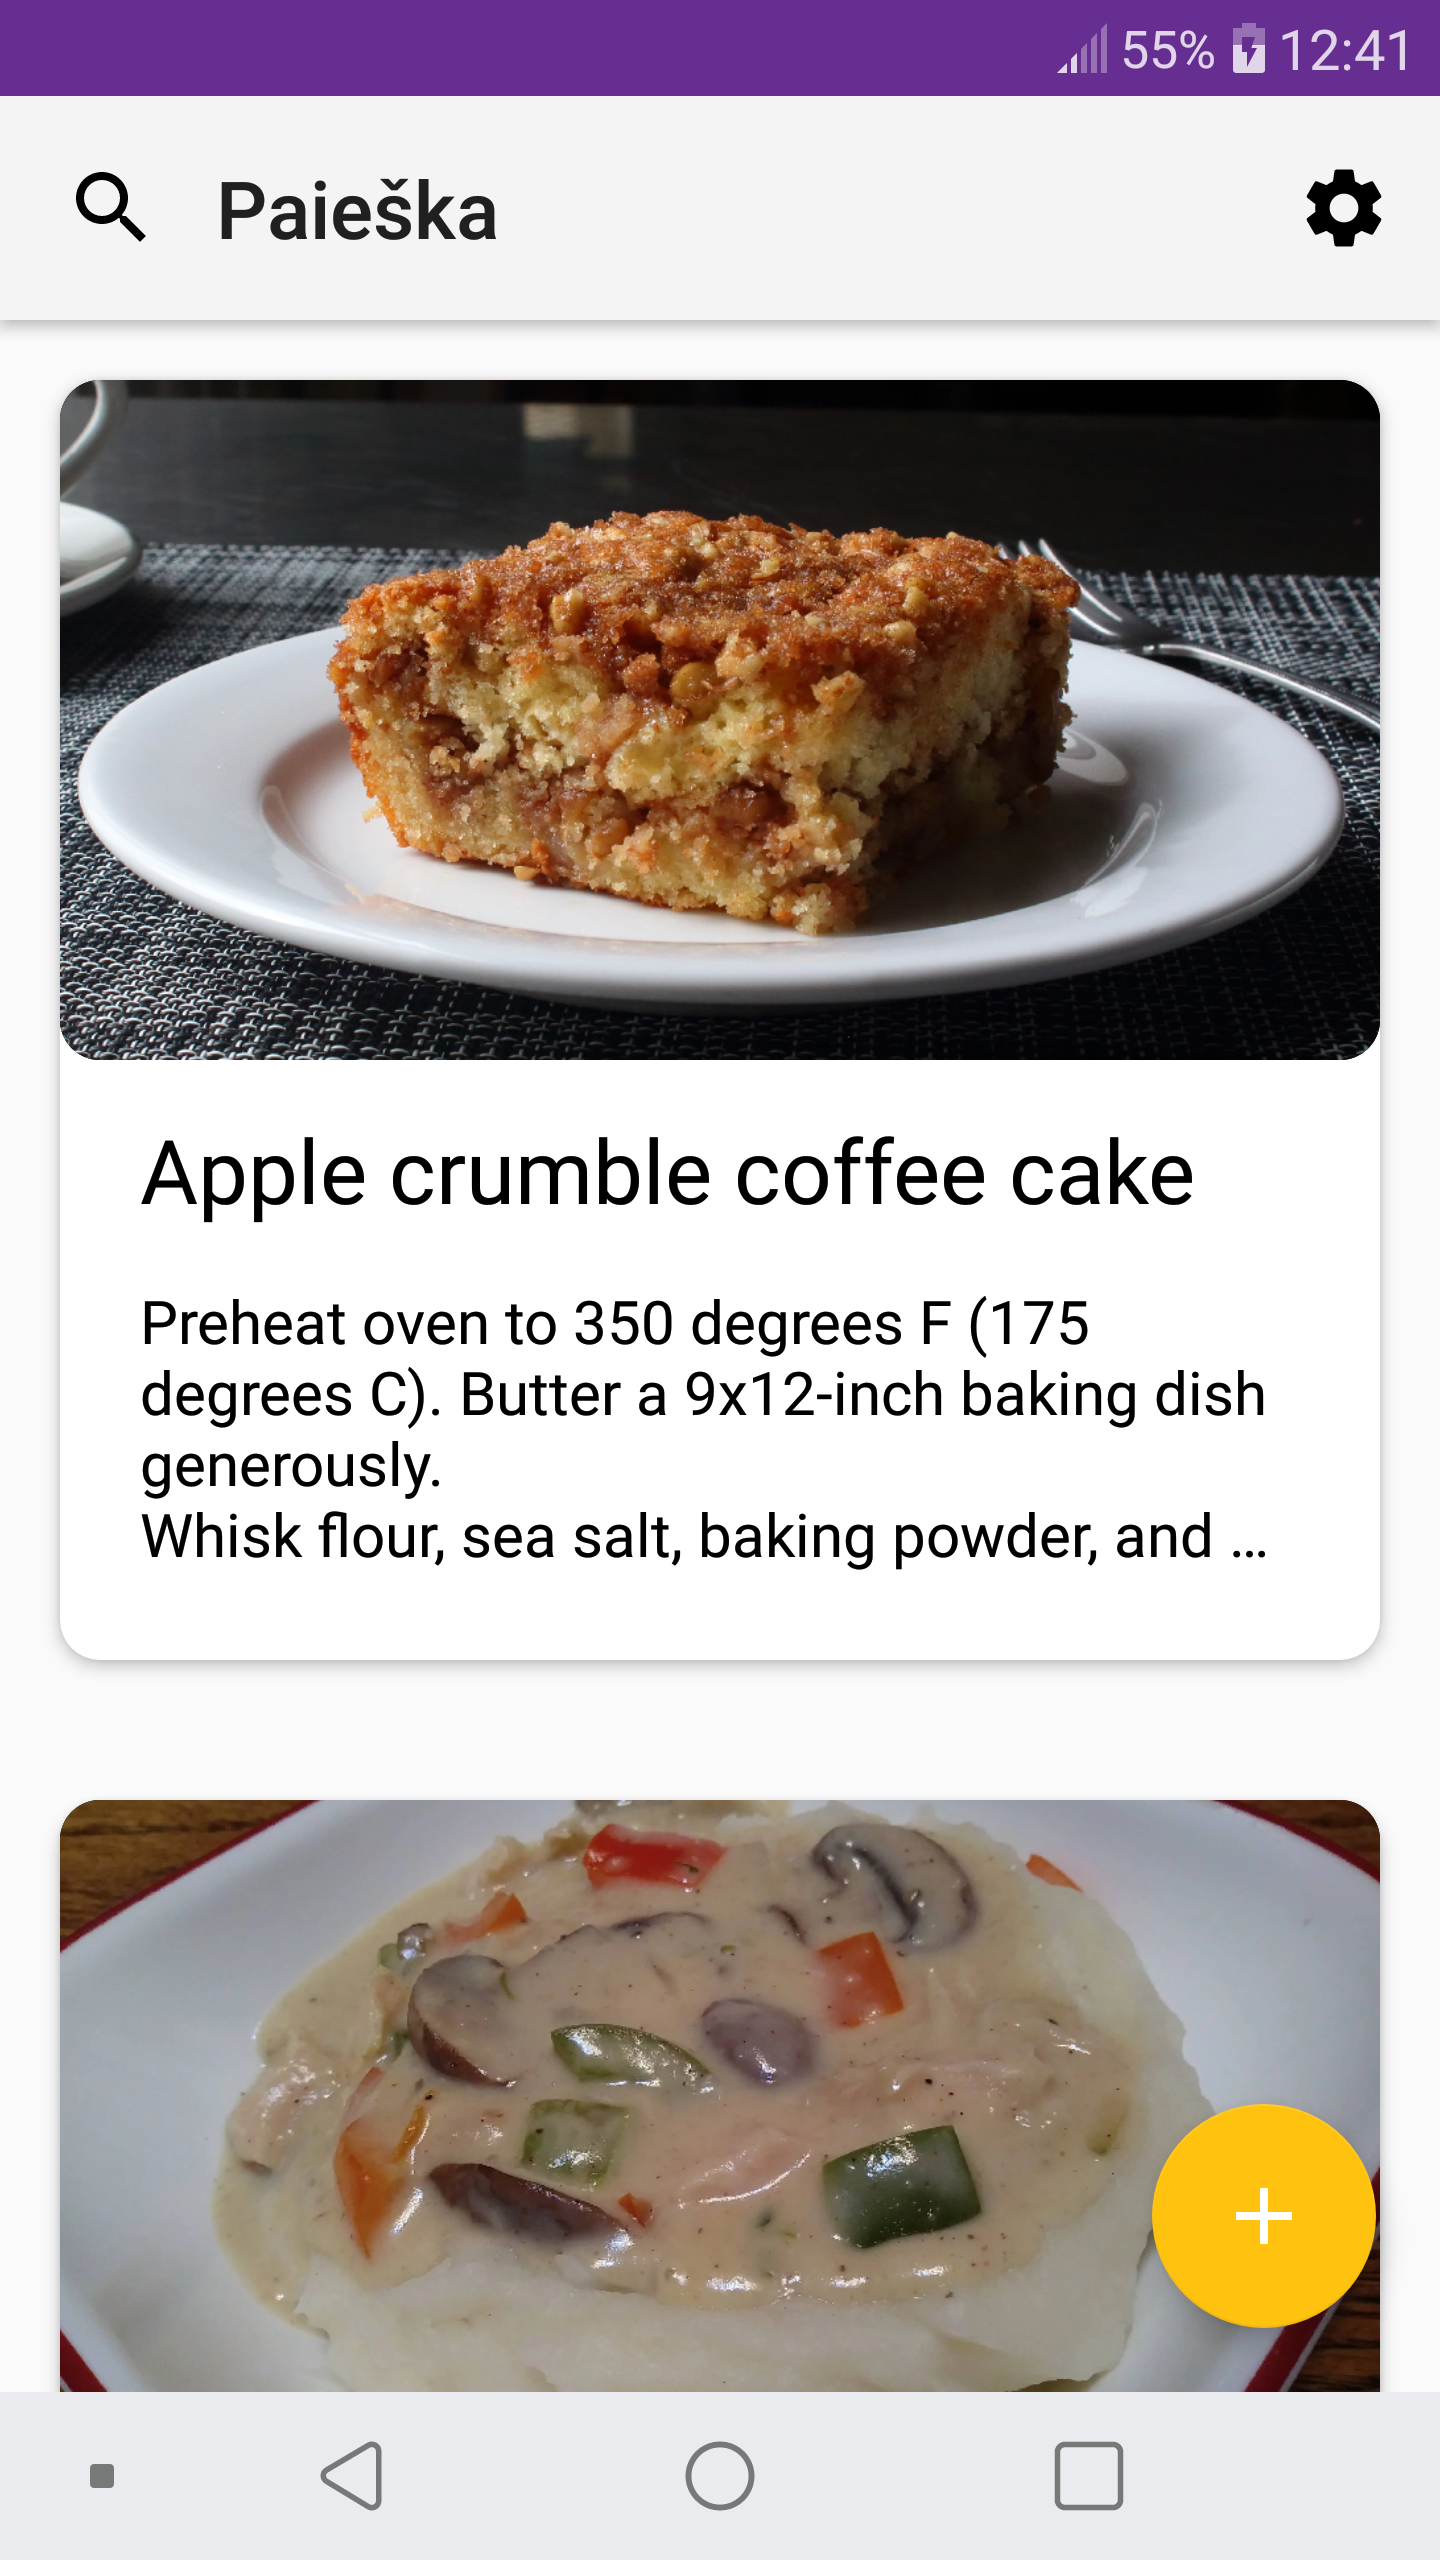
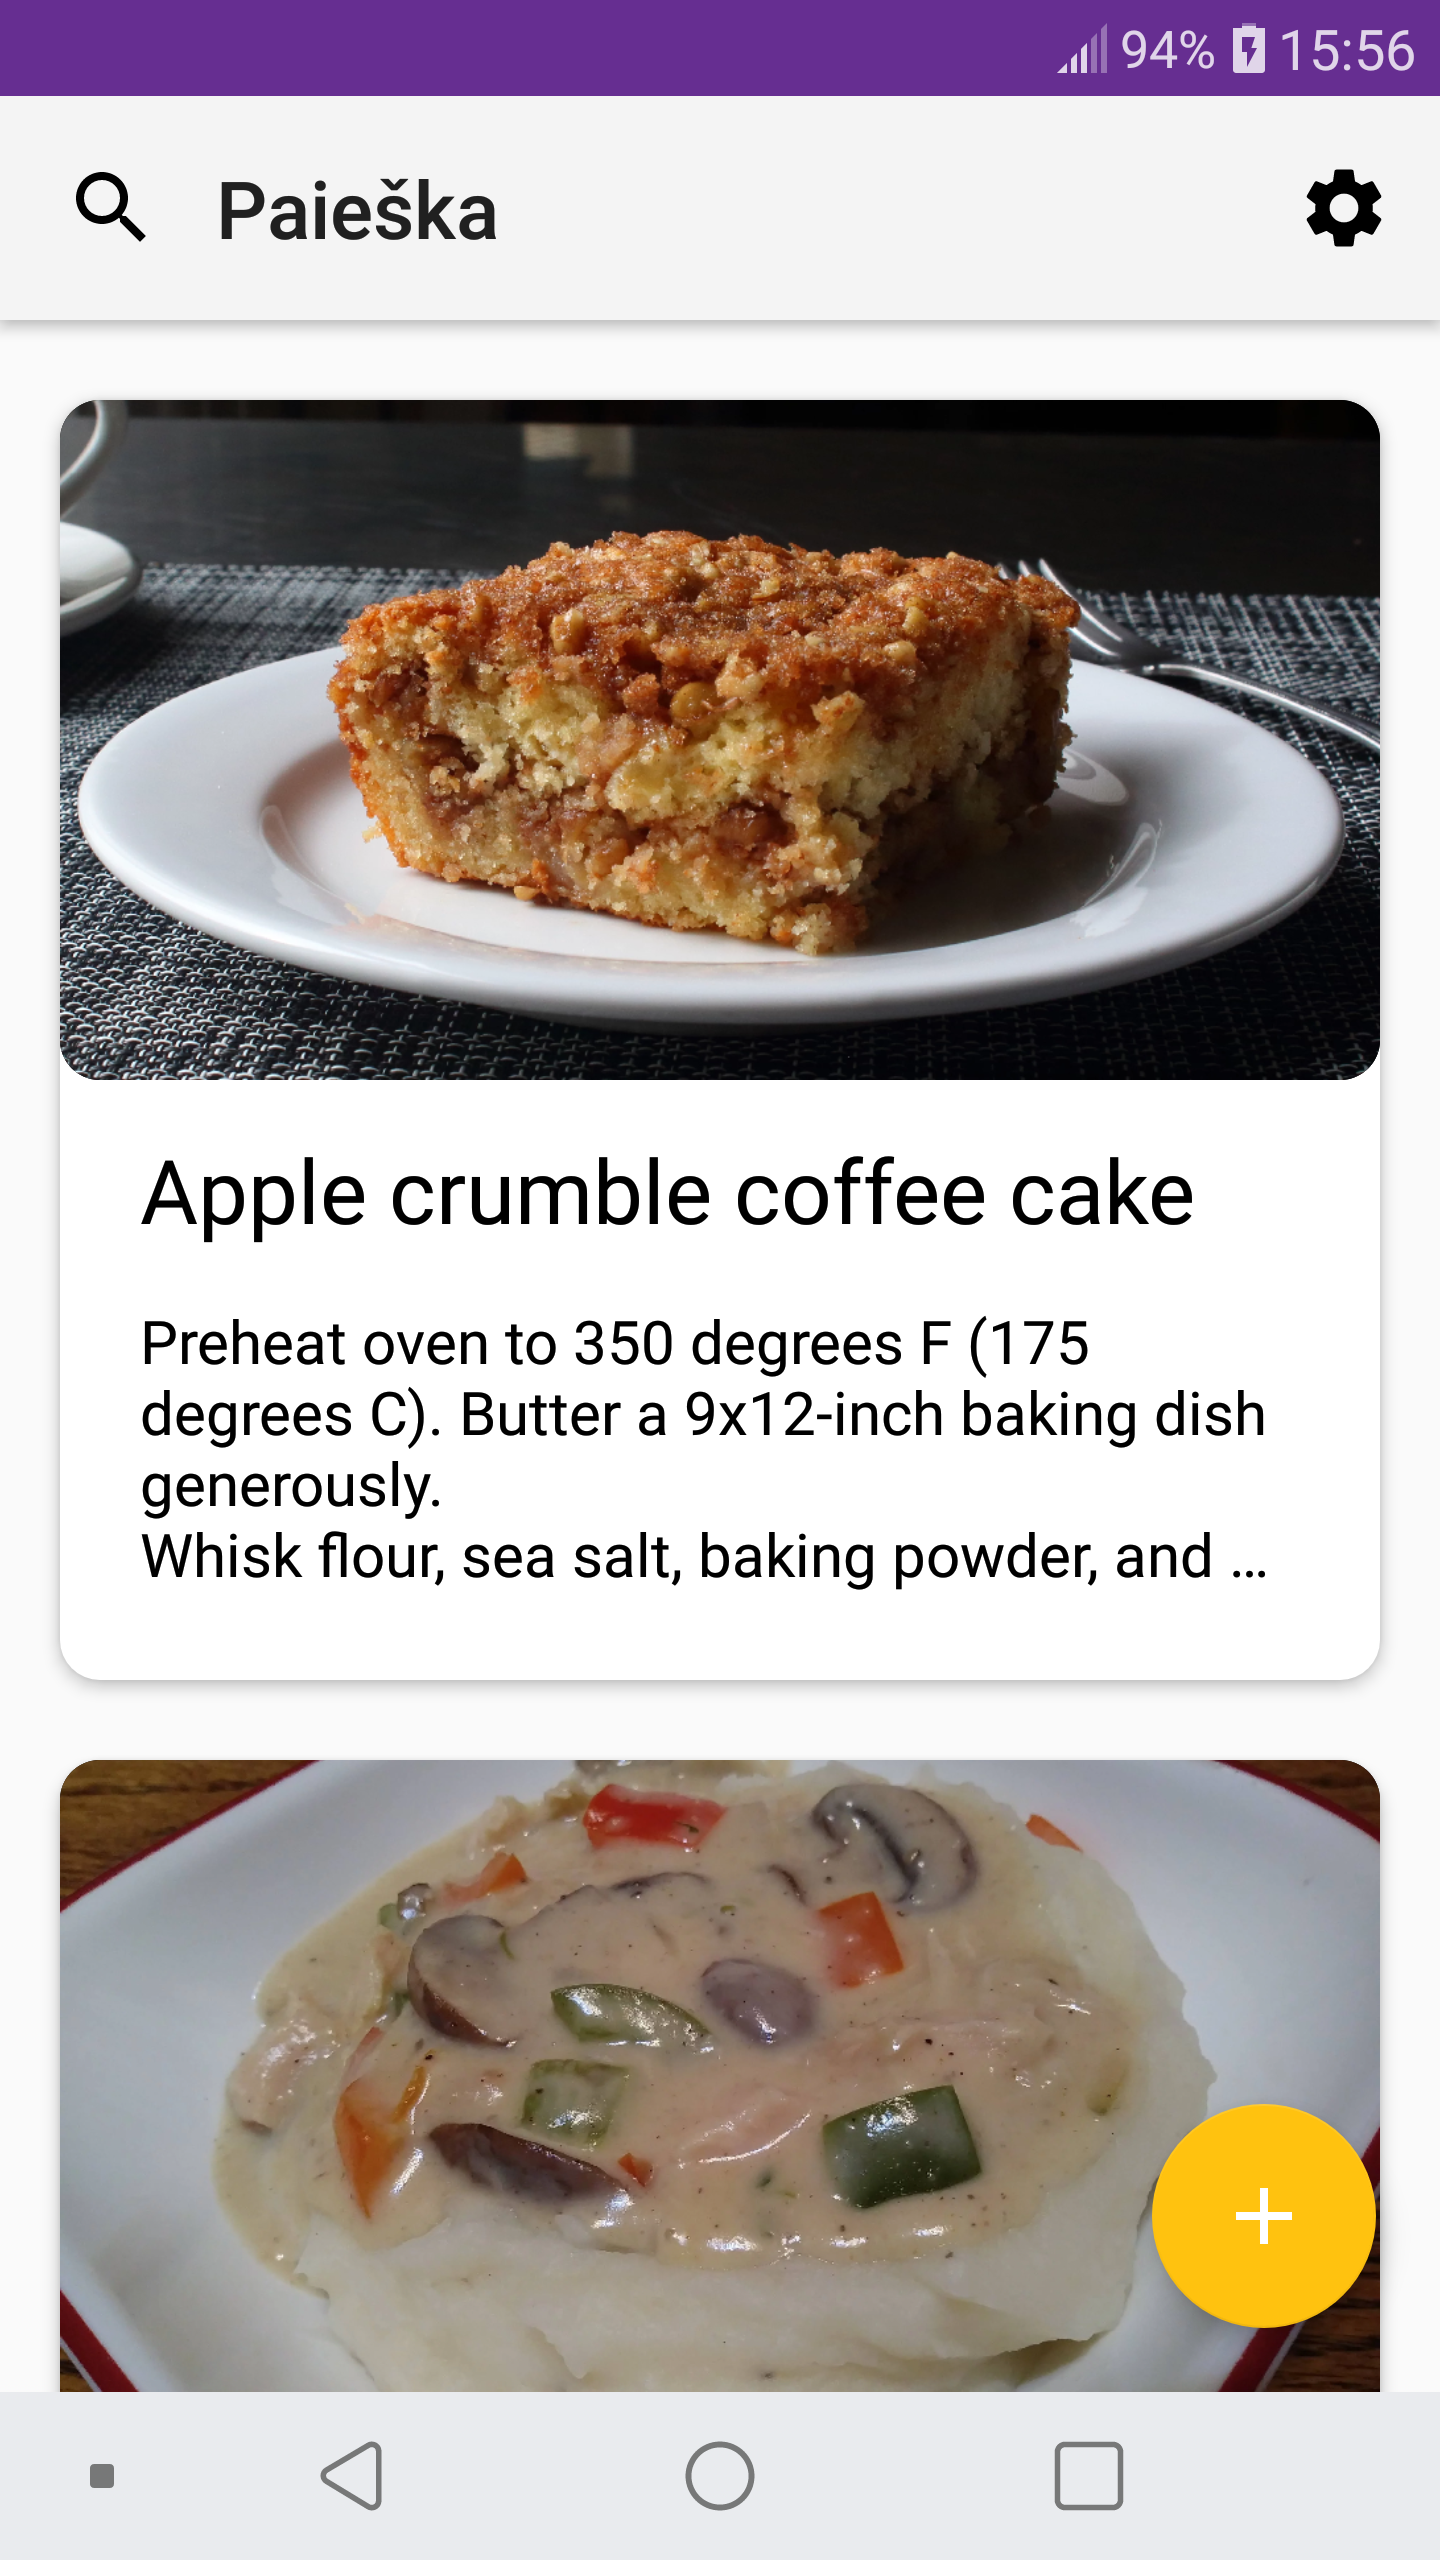
main first item have a top margin, which makes the whole card layout look so much better

diff --git a/app/src/main/java/com/airidasz/recipestorageapp/MainActivityRecyclerViewAdapter.kt b/app/src/main/java/com/airidasz/recipestorageapp/MainActivityRecyclerViewAdapter.kt
@@ -2,19 +2,22 @@ package com.airidasz.recipestorageapp
 
 import android.content.Context
 import android.content.Intent
+import android.content.res.Resources
+import android.util.TypedValue
 import android.view.LayoutInflater
 import android.view.View
 import android.view.ViewGroup
 import android.widget.ImageView
+import android.widget.LinearLayout
 import android.widget.TextView
 import androidx.recyclerview.widget.RecyclerView
 
-
 class MainActivityRecyclerViewAdapter// Constructor for the Class
-    (contactsList: MutableList<Recipe>?, context: Context?) :
+    (contactsList: MutableList<Recipe>?, context :Context?) :
     RecyclerView.Adapter<MainActivityRecyclerViewAdapter.RecipeHolder>() {
 
     private var recipeList: MutableList<Recipe>? = contactsList
+    private val context:Context? = context
 
     override fun onCreateViewHolder(parent: ViewGroup, viewType: Int): RecipeHolder {
         val layoutInflater = LayoutInflater.from(parent.context)
@@ -37,6 +40,30 @@ class MainActivityRecyclerViewAdapter// Constructor for the Class
             val intent = Intent(it.context, ViewItemActivity::class.java)
             intent.putExtra("recipe_id", recipe?.id)
             it.context.startActivity(intent)
+        }
+
+        if(position ==  0){
+            val firstElement = holder.itemView
+
+            val params = LinearLayout.LayoutParams(
+                LinearLayout.LayoutParams.WRAP_CONTENT,
+                LinearLayout.LayoutParams.WRAP_CONTENT)
+
+            val r: Resources? = context?.resources
+            val horizontal = TypedValue.applyDimension(
+                TypedValue.COMPLEX_UNIT_DIP,
+                15F,
+                r?.displayMetrics
+            ).toInt()
+            val vertical = TypedValue.applyDimension(
+                TypedValue.COMPLEX_UNIT_DIP,
+                20F,
+                r?.displayMetrics
+            ).toInt()
+
+            params.setMargins(horizontal, vertical, horizontal, vertical)
+
+            firstElement.layoutParams = params
         }
     }
 

diff --git a/app/src/main/java/com/airidasz/recipestorageapp/MainActivity.kt b/app/src/main/java/com/airidasz/recipestorageapp/MainActivity.kt
@@ -5,8 +5,10 @@ import android.os.Bundle
 import android.view.Menu
 import android.view.MenuItem
 import android.widget.TextView
+import android.widget.Toast
 import androidx.appcompat.app.AppCompatActivity
 import androidx.core.content.ContextCompat
+import androidx.core.view.marginTop
 import androidx.recyclerview.widget.LinearLayoutManager
 import androidx.recyclerview.widget.RecyclerView
 import kotlinx.android.synthetic.main.activity_main.*
